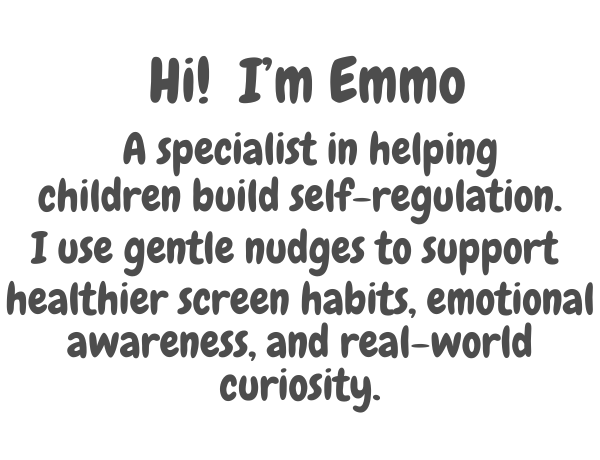
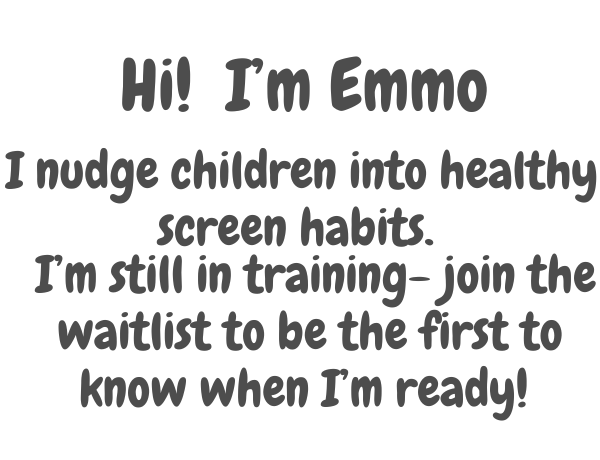
bubble done, now emmo

diff --git a/src/components/hero/ChatBubble.jsx b/src/components/hero/ChatBubble.jsx
@@ -2,46 +2,31 @@ import Image from "next/image";
 
 export default function ChatBubble() {
   return (
-    // <div
-    //   className="relative w-full max-w-[40vh] md:max-w-[40vh] lg:max-w-[47vh] aspect-[1/1] mt-7 animate-pulse
-      
-    //   // Default positioning
-    //   translate-x-0 translate-y-0
+    <section className="relative h-screen"> 
+      <div className="absolute top-[40%] md:top-[60%] sm:left-[55%] left-[50%] md:left-[42%] -translate-x-1/2 -translate-y-1/2 z-50 hide-on-small-height transition-all duration-300 ease-in-out">
+        
+        {/* Speech bubble background */}
+        <div className="w-[300px] md:w-[350px] lg:w-[380px] aspect-[1/1] animate-pulse transition-all duration-300 ease-in-out">
+          <Image
+            src="/assets/images/speech-bubble.png"
+            alt="Speech bubble"
+            fill
+            priority
+            className="object-contain w-full"
+          />
+        </div>
 
-    //   // Landscape and medium screen adjustments
-    //   md:-translate-x-30 md:translate-y-30 lg:-translate-x-20 lg:translate-y-25
-
-    //   // Apply left translation when height is smaller than 675px (converted to vh)
-
-    //   [@media(max-height:675px)]:-translate-x-20 [@media(max-height:675px)]:translate-y-10 [@media(max-height:675px)]:lg:translate-y-10 @media(max-height:675px)]:lg:translate-x-2
-
-    //   // Apply size  change when height is smaller than 675px (converted to vh)
-    //   [@media(max-height:675px)]:max-w-[30vh]
-    // "
-    // >
-<div className="fixed top-[50%] md:top-[40%] left-2/5 -translate-x-1/2 -translate-y-1/2 z-50 hide-on-small-height mt-20 ransition-all duration-300 ease-in-out">
-  <div className="w-[300px] md:w-[350px] lg:w-[380px] aspect-[1/1] animate-pulse transition-all duration-300 ease-in-out">
-    <Image
-      src="/assets/images/speech-bubble.png"
-      alt="Speech bubble"
-      fill
-      priority
-      className="object-contain w-full"
-    />
-  </div>
-
-
-      <div>
-       {/* <Image
-        src="/assets/images/EmmoText.png"
-        alt="Emmos text"
-        fill
-        priority
-        className="object-contain w-full"
-      /> */}
-      
-    </div>
-    <div/>
-    </div>
+        {/* Text image stacked on top */}
+        <div className="absolute  mt-4 ml-6 md:mt-5 md:ml-10  w-[240px] md:w-[280px] lg:w-[290px] aspect-[1/1] animate-pulse transition-all duration-300 ease-in-out inset-0 z-10 ">
+          <Image
+            src="/assets/images/EmmoText.png"
+            alt="Emmo's text"
+            fill
+            priority
+            className="object-contain w-full"
+          />
+        </div>
+      </div>
+    </section>
   );
 }

diff --git a/src/components/hero/Hero.jsx b/src/components/hero/Hero.jsx
@@ -82,16 +82,8 @@ export default function Hero() {
               className="h-auto [@media(max-height:675px)]:max-w-[70vh] lg:max-w-[70vh] md:max-w-[60vh]"
             />
           </div>
-
-          <section
-            className={`absolute inset-0 flex flex-col items-center justify-end pb-[10vh] z-10 pointer-events-none
-            transition-all duration-[3500ms] ease-out
-            ${animate ? "opacity-100" : "opacity-0"}
-            `}
-          >
             <ChatBubble />
             <Emmo />
-          </section>
         </>
       )}
     </section>

diff --git a/src/app/globals.css b/src/app/globals.css
@@ -52,7 +52,7 @@
   animation-fill-mode: both;
 }
 
-@media (max-height: 500px) {
+@media (max-height: 600px) {
   .hide-on-small-height {
     display: none;
   }
